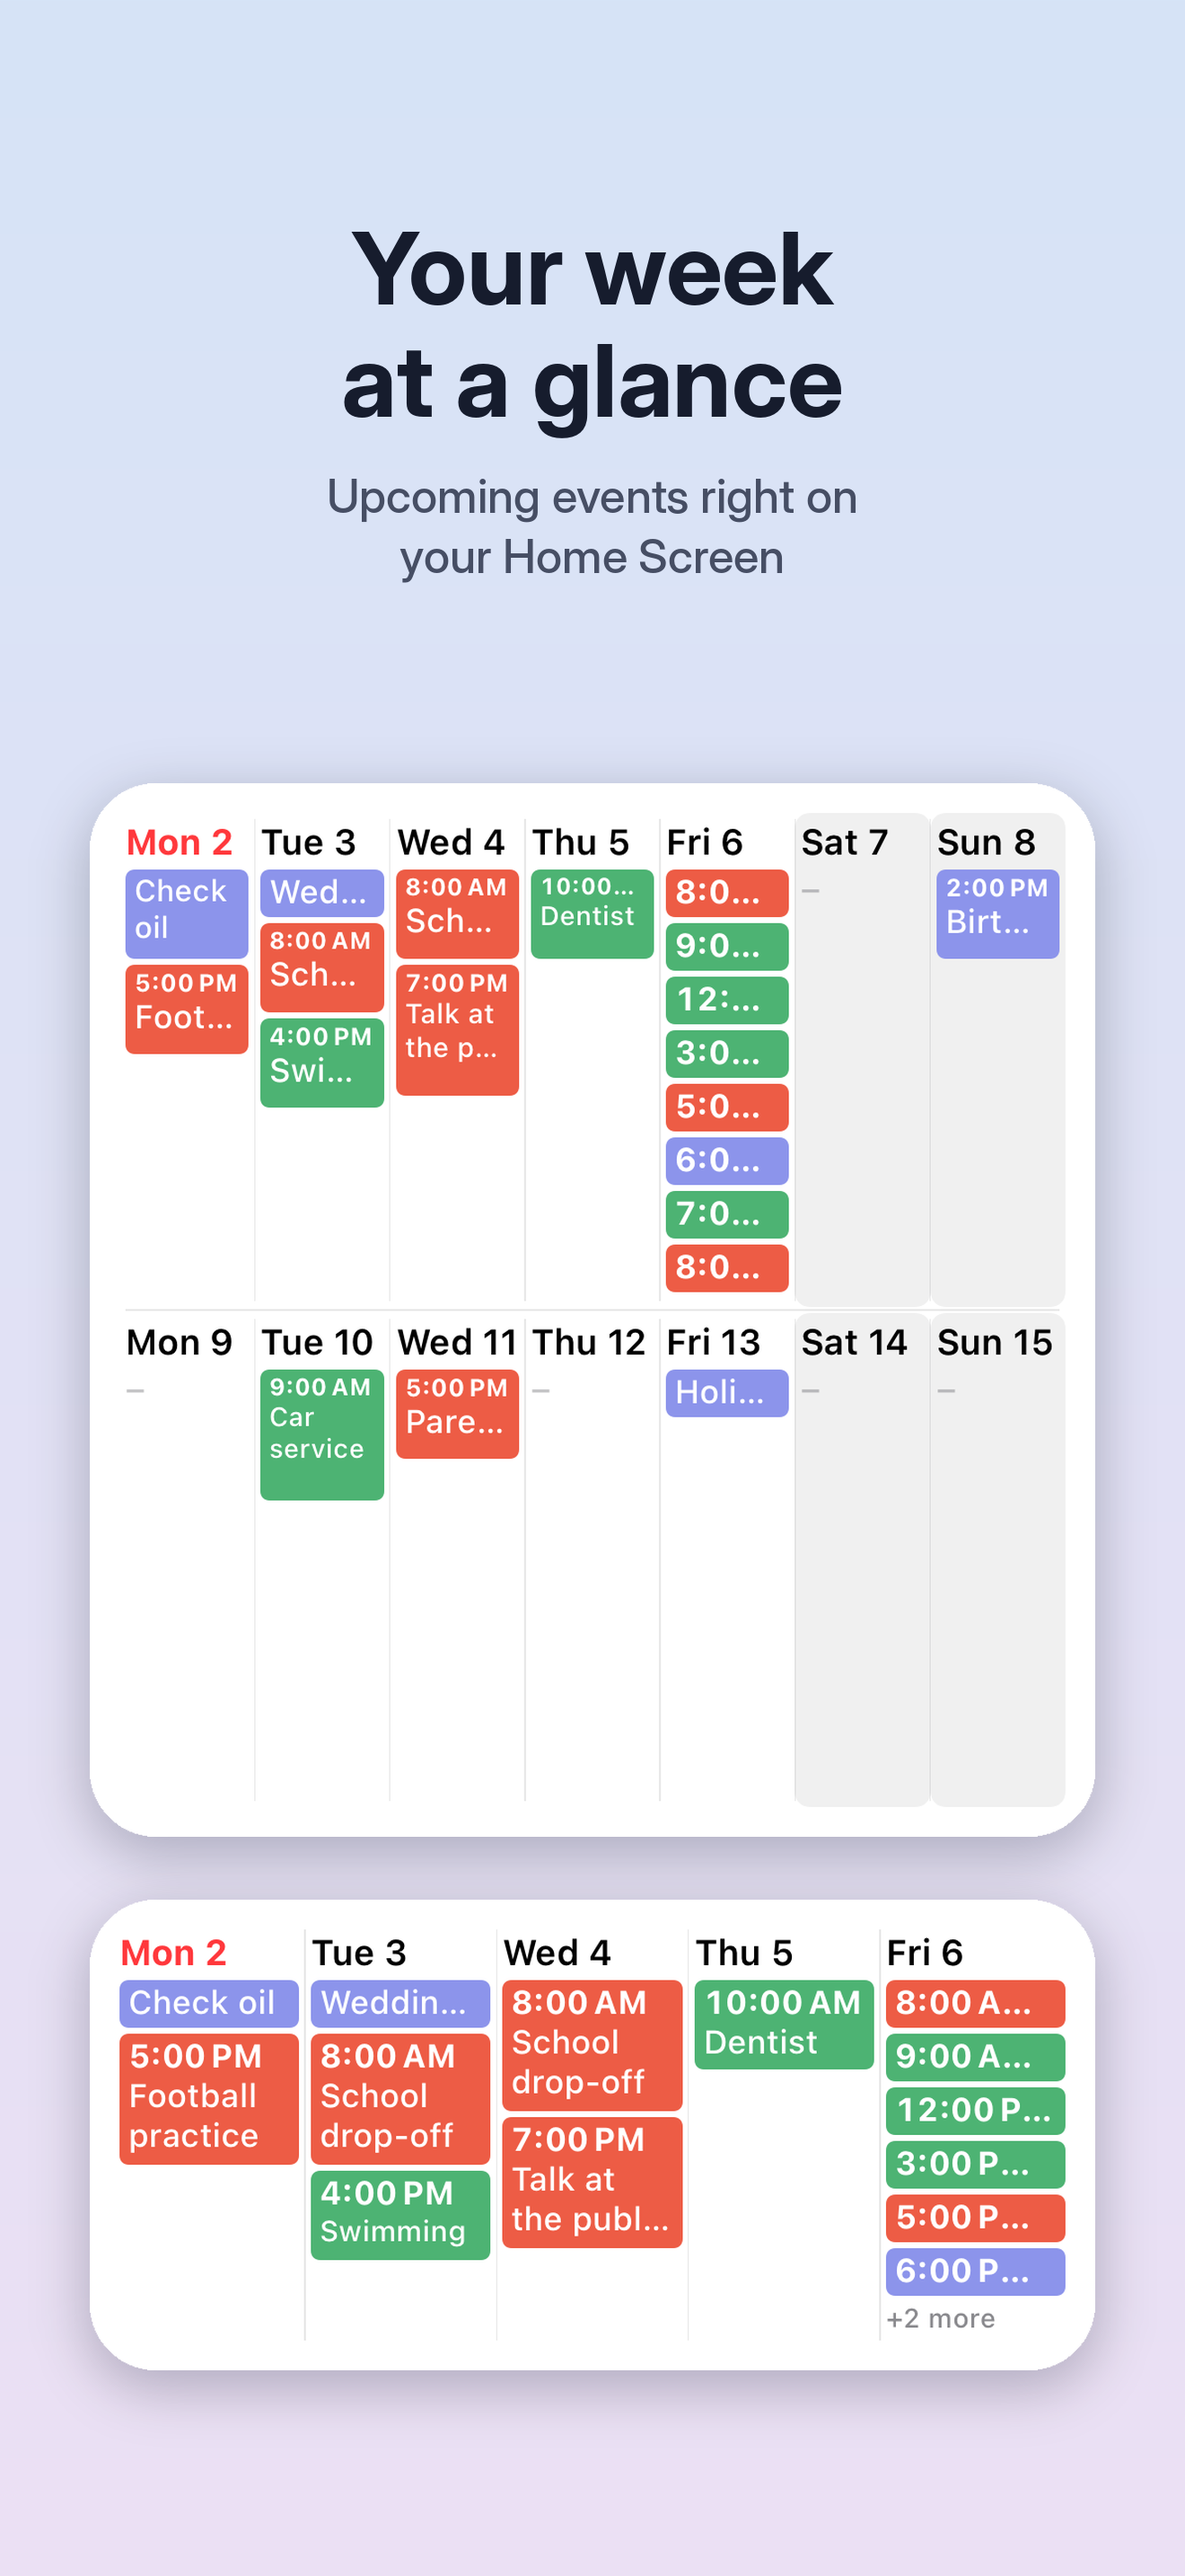
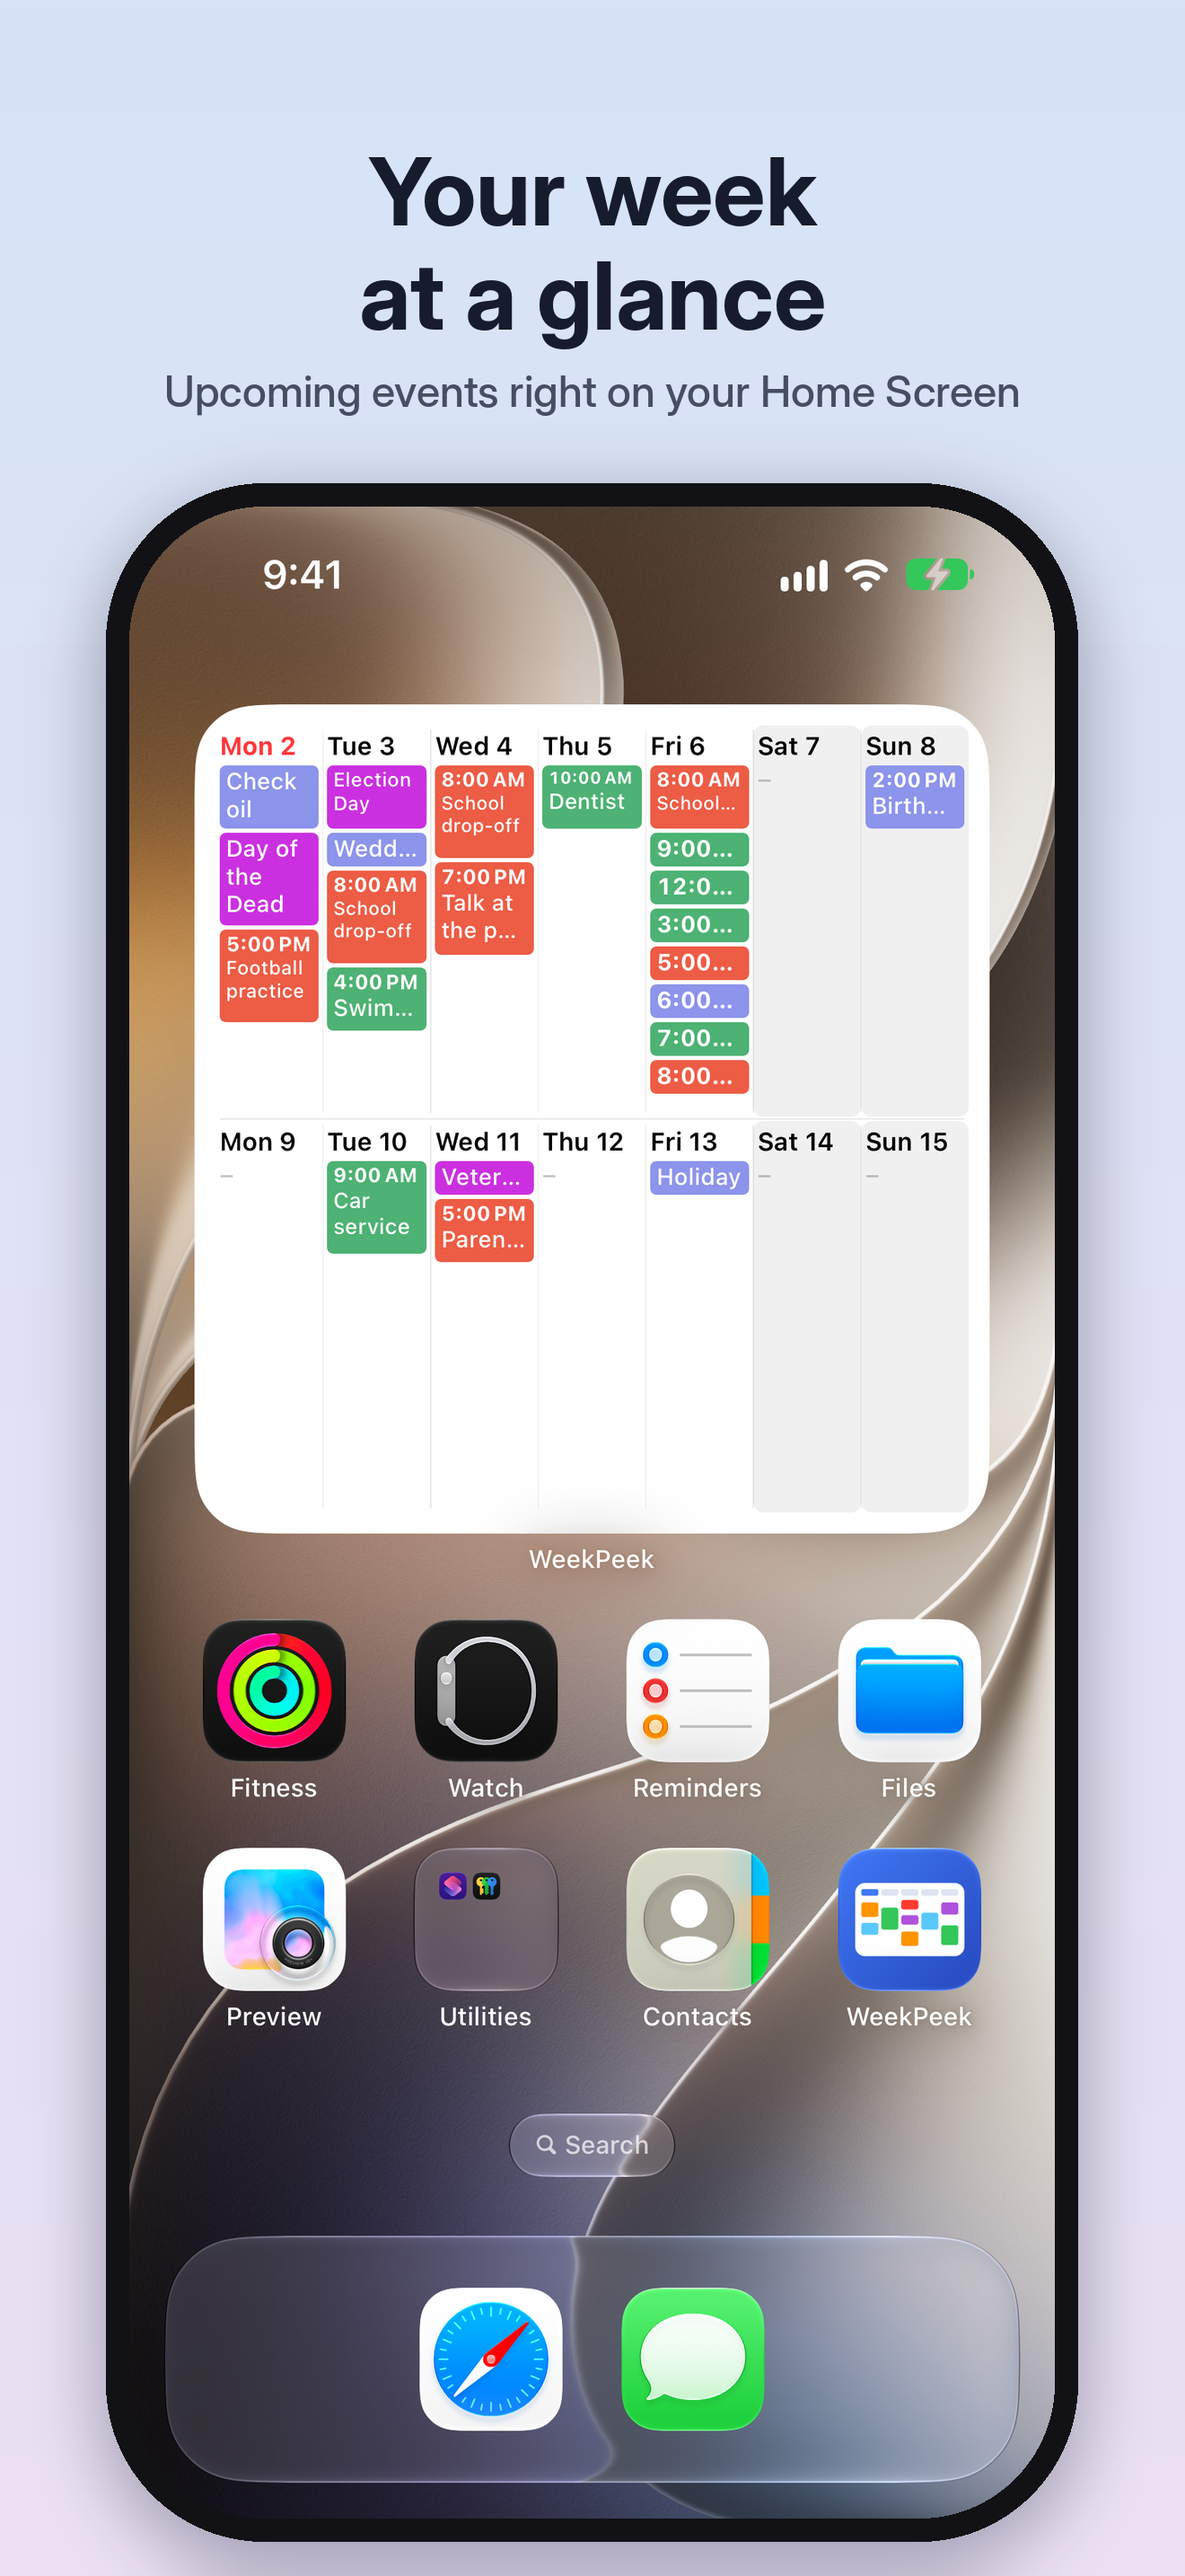
Use real Home Screen screenshots for the App Store
Taken in the iPhone 17 Pro Max Simulator with seeded sample events, in
light, dark and Danish, and framed with a headline.

Claude-Session: https://claude.ai/code/session_01VAJTrQ5TsadPSz7xXKVai5

diff --git a/docs/app-store.md b/docs/app-store.md
@@ -76,12 +76,9 @@ Decision: **non-trader**. The app is free with no ads, in-app purchases or subsc
 
 ## Screenshots
 
-Ready in `docs/appstore/` (6.9" iPhone, 1320 × 2868, sample events only):
+Ready in `docs/appstore/` (6.9" iPhone, 1320 × 2868). Real Home Screen screenshots from the iPhone 17 Pro Max Simulator, with sample events seeded by `Tests/SampleCalendarSeeder.swift` (plus the Simulator's built-in US holidays), framed with a headline:
 
-1. `1-week.png`: Your week at a glance (large + medium)
-2. `2-styles.png`: Light, dark or tinted
-3. `3-yours.png`: Make every widget your own (stripe, 10 days, big text)
+1. `1-week.png`: Your week at a glance (large widget)
+2. `2-sizes.png`: Every widget your own (small + large)
+3. `3-dark.png`: Made for dark mode too
 4. `4-languages.png`: Speaks your language (Danish)
-5. `5-private.png`: Private by design
-
-Widgets come from the render tests; `tools/` has no script for this yet, the composition was done with Pillow in the cloud environment.
